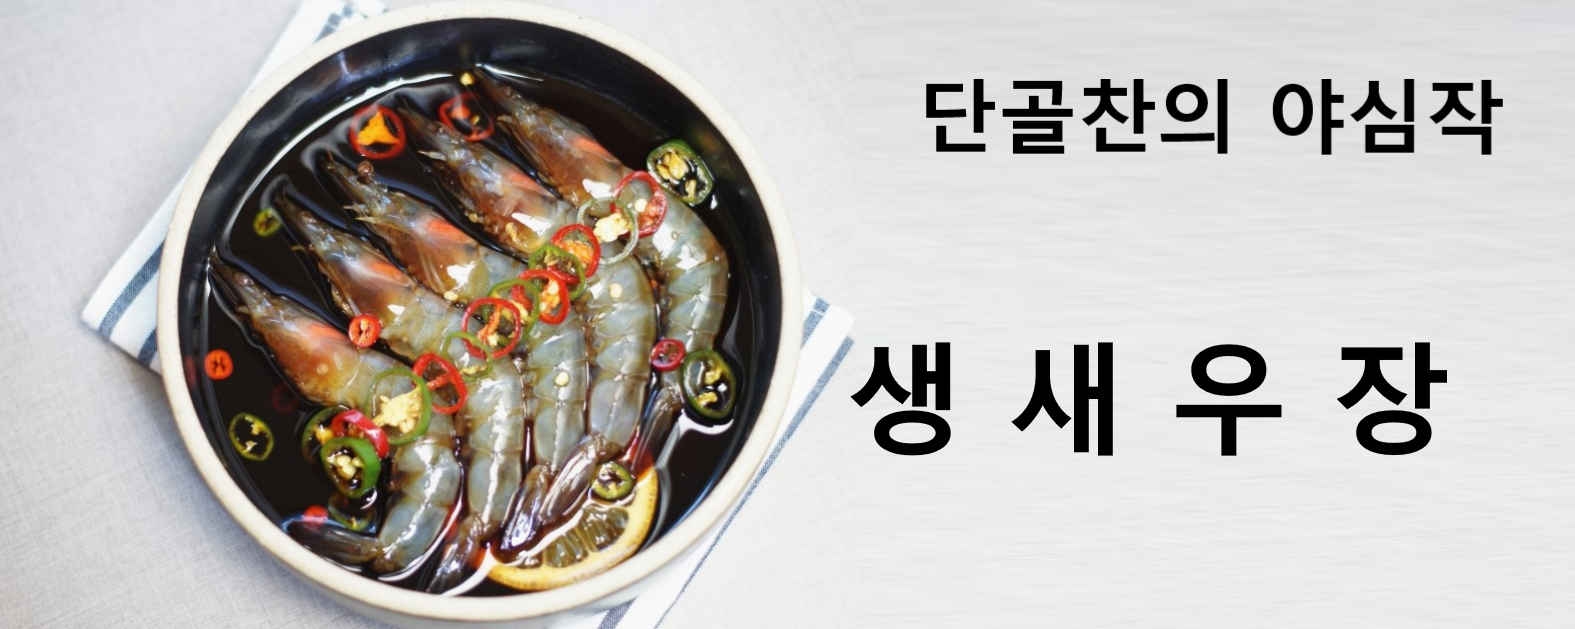
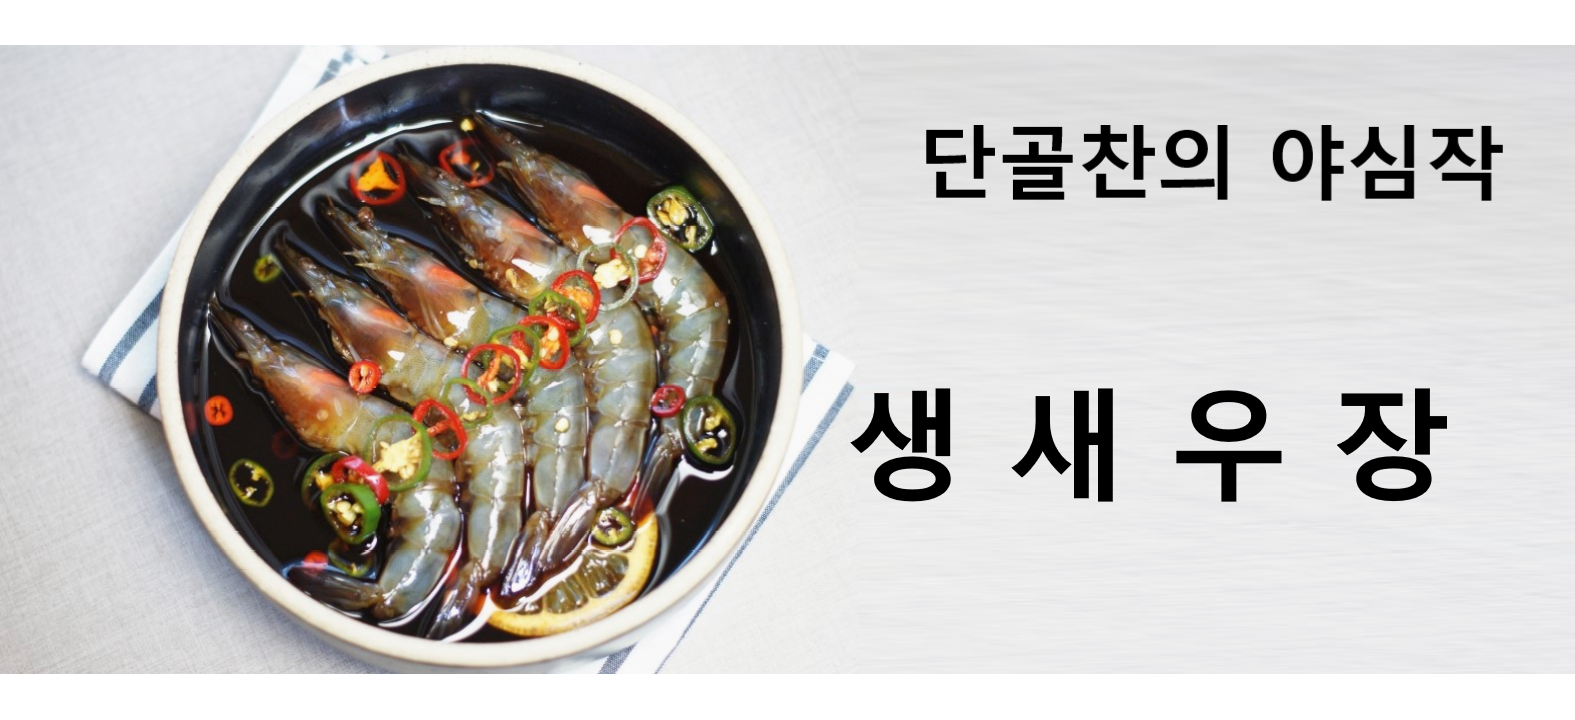
로고 변경~

diff --git a/routes/customer.js b/routes/customer.js
@@ -2,7 +2,6 @@ var express = require('express');
 var router = express.Router();
 var mysql = require('mysql');
 var multer = require('multer');
-var moment = require('moment');
 
 var pool = mysql.createPool({
   connectionLimit: process.env.DB_connectionLimit,
@@ -81,15 +80,16 @@ router.get('/tab', function (req, res, next) {
       "SELECT * FROM product_info ORDER BY Salerate desc;" +
       "SELECT * FROM product_info ORDER BY Recommend desc;" +
       "SELECT * FROM product_info as p left join (SELECT count(*) as star_sum, R_PID FROM review_info GROUP BY R_PID) as r on R_PID = PID ORDER BY star_sum desc;" +
-      "SELECT p.PID as PID, r.rec_RID as RID FROM product_info as p join (SELECT * FROM recommend_info WHERE rec_RID = ?) as r on p.PID = r.rec_PID;";
-    connection.query(ProductList_sql, [user_id], function (err, rows) {
+      "SELECT p.PID as PID, r.rec_RID as RID FROM product_info as p join (SELECT * FROM recommend_info WHERE rec_RID = ?) as r on p.PID = r.rec_PID;" + 
+      "SELECT * FROM register_info WHERE RID=?;";
+    connection.query(ProductList_sql, [user_id, user_id], function (err, rows) {
       if (err) console.error("err : " + err);
+      console
       // console.log("rows : " + JSON.stringify(rows))
       res.render('main', {
         title: '당골찬',
         page: page,
         rows: rows,
-        header
       });
       connection.release();
     });
@@ -117,8 +117,9 @@ router.get('/tab/:page', function (req, res, next) {
       "SELECT * FROM product_info" + where + "ORDER BY Salerate desc;" +
       "SELECT * FROM product_info" + where + "ORDER BY Recommend desc;" +
       "SELECT * FROM product_info as p left join (SELECT count(*) as star_sum, R_PID FROM review_info GROUP BY R_PID) as r on R_PID = PID" + where + "ORDER BY star_sum desc;" +
-      "SELECT p.PID as PID, r.rec_RID as RID FROM product_info as p join (SELECT * FROM recommend_info WHERE rec_RID = ?) as r on p.PID = r.rec_PID;";
-    connection.query(ProductList_sql, [user_id], function (err, rows) {
+      "SELECT p.PID as PID, r.rec_RID as RID FROM product_info as p join (SELECT * FROM recommend_info WHERE rec_RID = ?) as r on p.PID = r.rec_PID;" + 
+      "SELECT * FROM register_info WHERE RID=?;";
+    connection.query(ProductList_sql, [user_id, user_id], function (err, rows) {
       if (err) console.error("err : " + err);
       // console.log("rows : " + JSON.stringify(rows));
       res.render('main', {

diff --git a/views/header2.html b/views/header2.html
@@ -1,8 +1,7 @@
 <div class="top_div" align="right">
     <table class="top_table" rules=cols>
         <tr style="border-left: 1px solid lightgray;">
-            <td style="border-left: 1px solid lightgray;"><a href="/login">로그인</a></td>
-            <td style="border-left: 1px solid lightgray;"><a href="/joinForm">회원가입</a></td>
+            <td style="border-left: 1px solid lightgray;"><a href="/logout">로그아웃</a></td>
             <td style="border-left: 1px solid lightgray;"><a href="/customer/cart">장바구니</a></td>
             <td style="border-left: 1px solid lightgray;"><a href="/customer/mypage">마이페이지</a></td>
             <td style="border-left: 1px solid lightgray;"><a href="/customer/">고객센터</a></td>

diff --git a/public/stylesheets/style.css b/public/stylesheets/style.css
@@ -126,8 +126,8 @@ select {
 }
 
 .slidiv {
-  width: 1575px;
-  height: 629px;
+  height: 720px;
+  width: 100%;
   transition: 1s;
   border: 1px solid #000;
   align-items: center;
@@ -136,8 +136,8 @@ select {
 }
 
 .slidiv:hover {
-  width: 1575px;
-  height: 629px;
+  height: 720px;
+  width: 100%;
   background: rgb(255, 255, 255);
   color: #fff;
   align-items: center;
@@ -159,8 +159,8 @@ li {
 }
 
 #slide {
-  height: 629px;
-  width: 1575px;
+  height: 720px;
+  width: 100%;
   position: relative;
   overflow: hidden;
   text-align: center;

diff --git a/app.js b/app.js
@@ -79,7 +79,11 @@ global.headerFormat = fs.readFileSync(
     "utf8"
   );
 global.header = ejs.render(headerFormat);
-
+global.headerFormat2 = fs.readFileSync(
+    "./views/header2.html",
+    "utf8"
+  );
+global.header2 = ejs.render(headerFormat2);
 app.use('/upload', express.static(path.join(__dirname + '/upload')));
 
 app.use('/index', indexRouter);
